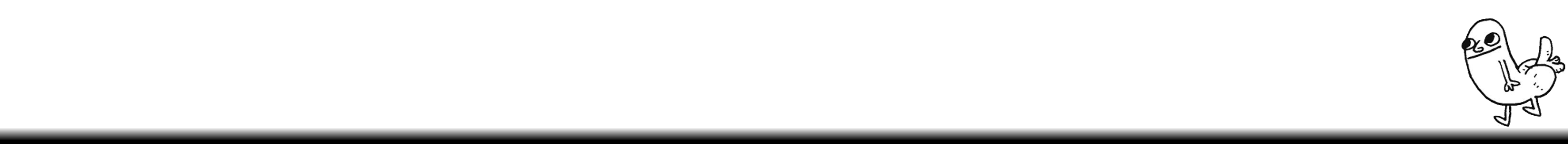
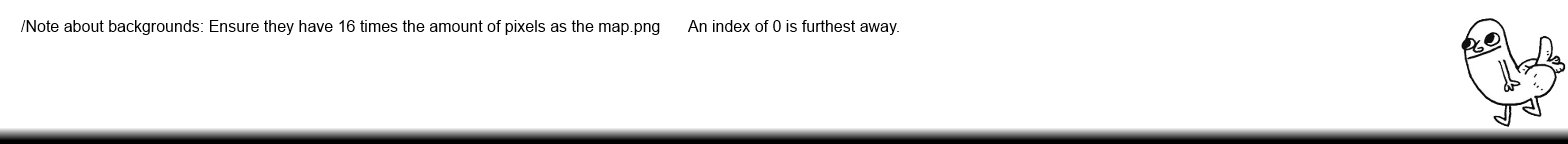
Background now changes with levels!
This was a lot more complex than I thought it would be D:

The .conf files are going to be for map-specific settings such as
weather effects, music, whatever springs to mind!

I changed some other things, but I'd rather not recall as mah brain is a
wee bit fuzzy.... Talk to you in the new day...

Oh jesus christ I have to get up at like 8AM...... Fuckkkkkkk

G'night

Changed region(s): [[0.0, 0.1389, 0.5938, 0.2222]]

diff --git a/Hanfeldt Game/src/com/hanfeldt/game/Main.java b/Hanfeldt Game/src/com/hanfeldt/game/Main.java
@@ -21,6 +21,7 @@ import com.hanfeldt.game.tile.Air;
 import com.hanfeldt.game.weapon.AmmoWeapon;
 import com.hanfeldt.game.weapon.TriggerWeapon;
 import com.hanfeldt.io.Listener;
+import com.hanfeldt.io.ResourceManager;
 
 import de.quippy.javamod.mixer.Mixer;
 import de.quippy.javamod.multimedia.MultimediaContainer;
@@ -44,6 +45,7 @@ public class Main implements Runnable {
 	public static float terminalVelocity = 5;
 	public ArrayList<Bullet> bullets = new ArrayList<Bullet>();
 	public static SpriteSheet spriteSheet;
+	public ResourceManager resourceManager;
 	public static boolean debugCheats = false; // added this to debug easier; player can't take damage and infinite bullets
 	
 	private int lives = 3;
@@ -112,6 +114,7 @@ public class Main implements Runnable {
 
 	public void init() {
 		gamePanel.requestFocus();
+		resourceManager = new ResourceManager();
 		spriteSheet = new SpriteSheet("/images/spritesheet.png");
 		character = new Sprite(Main.spriteSheet, 1, 3, 1, 1);
 		Sprite playerSprite = new Sprite(spriteSheet, 2, 1, 1, 2, 3);
@@ -268,6 +271,8 @@ public class Main implements Runnable {
 	}
 	
 	public static int getCurrentLevel(){
+		//This just returns 0, for the benefit of the callers who treat levels as an array..
+		//Things break when I change it from an array of levels so I'll leave it for now.
 		return level;
 	}
 	

diff --git a/Hanfeldt Game/src/com/hanfeldt/game/level/Background.java b/Hanfeldt Game/src/com/hanfeldt/game/level/Background.java
@@ -5,18 +5,21 @@ import java.awt.Graphics;
 import com.hanfeldt.game.Main;
 
 public class Background {
-	public int layerAmount = 4;//The amount of layers in use in this level. 
+	public int layerAmount;//The amount of layers in use in this level. 
 	
 	private BackgroundSheet[] layer;
 	private Sky sky;
+	private int currentLevel;
 	
-	public Background(){
+	public Background(int level){
 		sky = new Sky();
+		currentLevel = level + 1;
+		layerAmount = Main.getGame().resourceManager.getImageResourcesInDir(levelPath(currentLevel));
 		
 		layer = new BackgroundSheet[layerAmount];
 		
 		for(int i = 0; i < layerAmount; i++){
-			layer[i] = new BackgroundSheet(String.format("/images/maps/backgrounds/level%d/bg%d.png", 1, i));
+			layer[i] = new BackgroundSheet(levelPath(currentLevel, i));
 		}
 	}
 	
@@ -39,6 +42,14 @@ public class Background {
 		}else {
 			return Main.getGame().getPlayer().getX() / (i -layerAmount);
 		}
+	}
+	
+	private String levelPath(int levelNumber, int layer){
+		return String.format("/images/maps/backgrounds/level%d/bg%d.png", levelNumber, layer);
+	}
+	
+	private String levelPath(int levelNumber){
+		return String.format("/images/maps/backgrounds/level%d/", levelNumber);
 	}
 
 }

diff --git a/Hanfeldt Game/src/com/hanfeldt/game/level/Level.java b/Hanfeldt Game/src/com/hanfeldt/game/level/Level.java
@@ -23,7 +23,7 @@ public class Level {
 	private final BufferedImage levelImage;
 	private Player player;
 	public Tile[][] tiles;//Making this public static just to test things
-	public static int level;
+	public static int level = 0;
 	private int sizeX, sizeY;
 	private Spawner spawner;
 	private Background bg;
@@ -39,7 +39,6 @@ public class Level {
 			levelImage = temp;
 		}
 		
-		level = 0;
 		
 		sizeY = Main.sizeY / 16;
 		sizeX = levelImage.getWidth();
@@ -68,16 +67,17 @@ public class Level {
 			}
 		}
 		
-		bg = new Background();
+		setBg(level);
 		
 		player = p;
 	}
 	
 	public void tick(){
 		Main.getGame().getPlayer();
-		if(player.levelFinished && level < Main.getLevels().length){
+		if(player.levelFinished){
 			level++;
 			Main.setLevel(level);
+			setBg(level);
 			player.setX(0);
 			player.setY(48);
 			player.levelFinished = false;
@@ -124,6 +124,10 @@ public class Level {
 	
 	public void setTile(int x, int y, Tile t) {
 		tiles[x][y] = t;
+	}
+	
+	public void setBg(int currentLevel){
+		bg = new Background(currentLevel);
 	}
 	
 }

diff --git a/Hanfeldt Game/src/com/hanfeldt/io/ResourceManager.java b/Hanfeldt Game/src/com/hanfeldt/io/ResourceManager.java
@@ -1,0 +1,36 @@
+package com.hanfeldt.io;
+
+import java.io.BufferedReader;
+import java.io.IOException;
+import java.io.InputStreamReader;
+
+public class ResourceManager {
+	
+	public ResourceManager(){
+
+		
+	}
+	
+	public int getImageResourcesInDir(String path){
+		int resources = 0;
+		BufferedReader reader = null;
+		try{
+			reader = new BufferedReader(new InputStreamReader(getClass().getResourceAsStream(path)));
+			String name;
+			while((name = reader.readLine()) != null){
+				if(name.endsWith("png"))
+				resources++;
+			}
+		} catch (IOException e) {
+			System.err.println("IOException in ResourceManager");
+		}finally{
+			try{
+				reader.close();
+			}catch(Exception e){
+				System.err.println("Exception in ResourceManager");
+			}
+		}
+		return resources;
+	}
+	
+}

diff --git a/Hanfeldt Game/src/com/hanfeldt/game/level/BackgroundSheet.java b/Hanfeldt Game/src/com/hanfeldt/game/level/BackgroundSheet.java
@@ -19,6 +19,7 @@ public class BackgroundSheet {
 			temp = ImageIO.read(Main.class.getResource(path));
 		}catch(Exception e) {
 			e.printStackTrace();
+			System.err.println("Failed to read " + path);
 		}finally{
 			sheet = temp;
 		}
